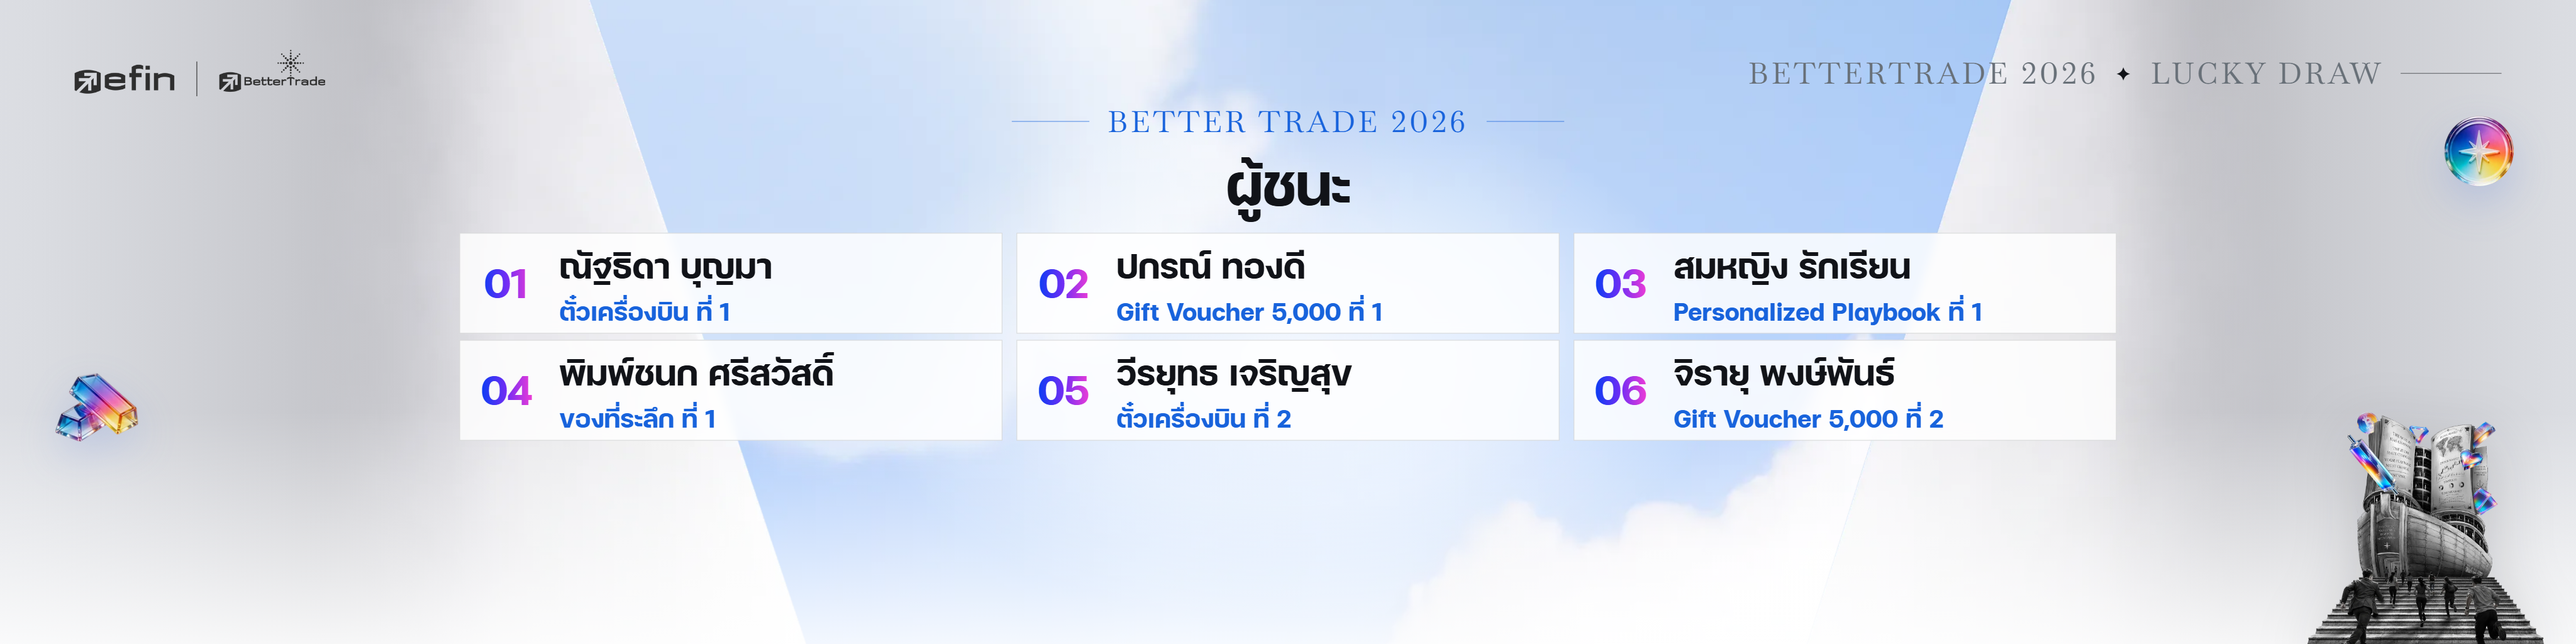
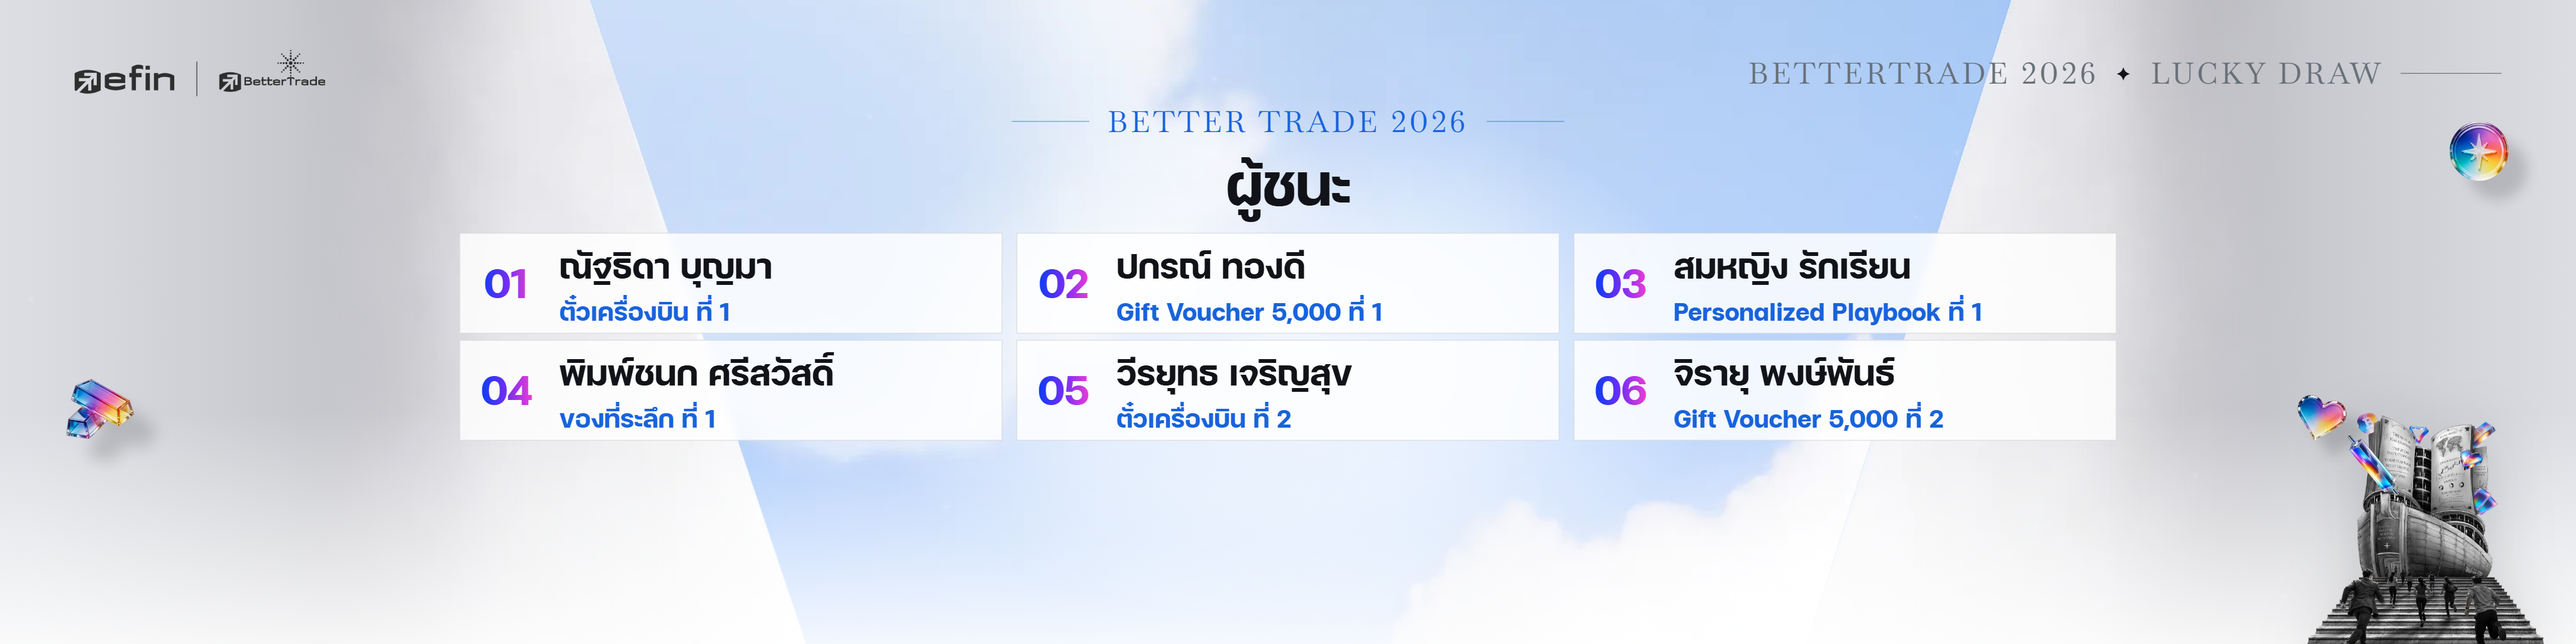
Depth treatment for the glass pieces on every scene; denser reveal confetti
After the key-visual video: one light from the upper left, so each piece casts a soft,
light grey shadow down-right onto the walls and wings only (a shadow layer masked by the
wall images; pieces over the sky cast none, the ship casts none). Pieces are sized and
tilted by depth (near/mid/far), bob by ~10% of their own size with the shadow bobbing at
40%, a small heart sits on the ship's book, and faint sparkle dust drifts over the stage.
Per-scene overrides keep the Mini board clear of the cards.

- Reveal confetti: ~125 pieces over 1.8s (was ~45 over 1.2s)
- Mini Stage idle and reveal share the prize scene's optical centre (lifted 45)
- Add heart.webp; regenerate previews

Changed region(s): [[0.9375, 0.1875, 1.0, 0.3125], [0.0, 0.5625, 0.0625, 0.7188], [0.875, 0.625, 0.9375, 0.6875]]

diff --git a/show-screen.html b/show-screen.html
@@ -65,7 +65,7 @@
   body.screen-main .ship{right:-660px;height:300px}   /* right zone, clear of the board */
   body.screen-main .el.efin{right:auto;bottom:auto;left:1680px;top:640px;width:120px}
   /* the 4-column board fills the sky, so the mid and near pieces step aside there (far pieces and the ship stay) */
-  .el,.wing-el{transition:opacity .6s}
+  .el,.wing-el{transition:opacity .6s,scale .8s ease,rotate .8s ease}   /* size and tilt ease in and out of the depth treatment */
   body.screen-main #stage[data-scene="board"] :is(.el.candle,.el.chest,.el.gift,.el.efin,.wing-el.n1,.wing-el.n2){opacity:0}
   /* ---- KV backdrop: sky seen between two white walls (key visual), layered so each part can move ---- */
   .sky{position:absolute;top:0;left:-6%;width:112%;height:100%;background:url("prize-assets/img/kv-sky.webp") center/cover no-repeat;
@@ -114,6 +114,8 @@
   /* prize */
   .prize h2,.idle h2,.board h2{font-weight:600;font-size:150px;line-height:1.05;letter-spacing:-.01em}
   .prize{padding-bottom:90px}   /* optical centre sits a little above the middle */
+  /* Mini Stage: idle and reveal sit at the same optical centre as the prize scene (about 45 above the middle) */
+  body.screen-mini :is(.scene.idle,.scene.reveal){padding-bottom:90px}
   .prize h2{margin:20px 0 22px}
   .prize .qty{font-size:46px;font-weight:700;color:var(--ink-2);display:flex;align-items:baseline;justify-content:center;gap:14px}
   .prize .qty b{font-weight:700;font-size:110px;line-height:1;color:var(--ink)}
@@ -281,6 +283,45 @@
   /* reveal: a wider name column so long names shrink less */
   body.screen-main .who{width:1500px}
 
+  /* ---- depth treatment (every scene, both screens), after the key-visual video:
+     one light from the upper left, so every piece casts a soft grey shadow down-right onto the walls and wings only
+     (the .shadows layer is masked to those surfaces; pieces over the sky cast none), pieces are sized by depth
+     (near > mid > far, about 2.5 : 1), each bobs by ~10% of its own size, and its shadow bobs at 40% of that.
+     Sizes, tilts and shadow offsets are set per piece by applyDepth() in the script. ---- */
+  .shadows{position:absolute;top:0;bottom:0;left:-1400px;width:4720px;pointer-events:none;opacity:0;transition:opacity .6s;
+    --ml:1275px;--mr:2759px;--wl:0px;--wr:4720px;
+    -webkit-mask:url("prize-assets/img/kv-wall-l.webp") var(--ml) 0/687px 1600px no-repeat,url("prize-assets/img/kv-wall-r.webp") var(--mr) 0/716px 1600px no-repeat,
+      linear-gradient(#000,#000) 0 0/var(--wl) 100% no-repeat,linear-gradient(#000,#000) var(--wr) 0/100% 100% no-repeat;
+    mask:url("prize-assets/img/kv-wall-l.webp") var(--ml) 0/687px 1600px no-repeat,url("prize-assets/img/kv-wall-r.webp") var(--mr) 0/716px 1600px no-repeat,
+      linear-gradient(#000,#000) 0 0/var(--wl) 100% no-repeat,linear-gradient(#000,#000) var(--wr) 0/100% 100% no-repeat}
+  /* Main Stage: walls sit 200px further apart, and the wings (left of -323, right of 2273) are wall surface too */
+  body.screen-main .shadows{--ml:1075px;--mr:2959px;--wl:1077px;--wr:3673px}
+  #stage.depth .shadows{opacity:1}
+  /* a shadow is the piece's own silhouette, blacked out and blurred, moved by the same CSS as the piece (+1400px for the layer) */
+  .shadows .cast{margin:0 1400px;filter:brightness(0) blur(var(--blur,10px)) opacity(var(--op,.25));scale:var(--s,1);rotate:var(--r,0deg);
+    translate:var(--dx,0px) var(--dx,0px);animation-name:castbob;animation-duration:var(--dur,6s)}
+  @keyframes castbob{50%{transform:translateY(calc(-.4 * var(--amp,18px)))}}
+  #stage.depth :is(#core > .el,#core > .wing-el){filter:none;scale:var(--s,1);rotate:var(--r,0deg);animation-name:bobz;animation-duration:var(--dur,6s)}
+  @keyframes bobz{50%{transform:translateY(calc(-1 * var(--amp,18px))) rotate(-2deg)}}
+  /* the small heart only appears with the depth treatment, sitting on the ship's open book */
+  .el.s1{opacity:0;width:76px;right:252px;bottom:214px;animation-delay:-2.5s}
+  body.screen-main .el.s1{right:auto;bottom:auto;left:2250px;top:500px;width:80px}
+  #stage.depth .el.s1{opacity:1}
+  /* Mini Stage: the efin symbol tucks against the ship's hull, like the pieces round the ship in the key visual */
+  body.screen-mini #stage.depth .el.efin{right:280px;bottom:77px}
+  /* Main Stage: the gift sits a little lower and right so it clears the corner label and long winner names once it is larger */
+  body.screen-main #stage.depth .el.gift{top:140px;left:1730px}   /* right of where a very long winner name ends (~1720) */
+  /* Mini Stage: the larger gift steps down, clear of the corner label */
+  body.screen-mini #stage.depth .el.gift{top:140px}
+  body.screen-mini #stage.depth[data-scene="board"] .el.gift{top:104px}
+  body.screen-mini #stage.depth[data-scene="board"] .el.candle{left:-25px}
+  /* drifting sparkle dust in front of the backdrop */
+  .dust{position:absolute;top:0;bottom:0;left:-1400px;width:4720px;pointer-events:none;opacity:0;transition:opacity .6s}
+  #stage.depth .dust{opacity:1}
+  .dust i{position:absolute;width:var(--d);height:var(--d);border-radius:50%;background:#fff;box-shadow:0 0 6px 1px rgba(255,255,255,.9);
+    opacity:.2;animation:twinkle var(--t) ease-in-out infinite alternate;animation-delay:var(--dl)}
+  @keyframes twinkle{to{opacity:.95;transform:translateY(-8px)}}
+
   /* ?still: every scene in its settled state, no motion (gallery thumbnails and PNG export) */
   body.still *,body.still *::before,body.still *::after{animation:none!important;transition:none!important}
 
@@ -292,20 +333,23 @@
 <div id="stage">
 <div id="core">
   <div class="wing l"></div><div class="wing r"></div>
-  <img class="wing-el b" src="prize-assets/img/gold-bars.webp" alt="">
-  <img class="wing-el c" src="prize-assets/img/compass.webp" alt="">
   <div class="sky"></div>
   <img class="wall l" src="prize-assets/img/kv-wall-l.webp" alt="">
   <img class="wall r" src="prize-assets/img/kv-wall-r.webp" alt="">
   <div class="seam l"></div><div class="seam r"></div>
   <div class="floor"></div>
+  <div class="shadows" aria-hidden="true"></div>
+  <img class="wing-el b" src="prize-assets/img/gold-bars.webp" alt="">
+  <img class="wing-el c" src="prize-assets/img/compass.webp" alt="">
   <div class="halo"></div>
+  <div class="dust" aria-hidden="true"></div>
   <img class="ship" src="prize-assets/img/kv-ship.webp" alt="">
   <img class="el efin" src="prize-assets/img/efin-symbol.webp" alt="">
 
   <img class="el candle" src="prize-assets/img/candle.png" alt="">
   <img class="el chest" src="prize-assets/img/chest.webp" alt="">
   <img class="el gift" src="prize-assets/img/gift.webp" alt="">
+  <img class="el s1" src="prize-assets/img/heart.webp" alt="">
   <img class="wing-el n1" src="prize-assets/img/diamond-icon.webp" alt="">
   <img class="wing-el n2" src="prize-assets/img/coin.webp" alt="">
 
@@ -441,6 +485,7 @@ function setScreen(x){
   document.querySelectorAll("#demoBar [data-screen]").forEach(b => b.setAttribute("aria-pressed", b.dataset.screen === screen));
   fit();
   stage.dataset.sized = "1";
+  if(window.depthReady) applyDepth();
   if(!first && typeof lastBoard !== "undefined" && lastBoard && stage.dataset.scene === "board") showBoard(lastBoard);
 }
 addEventListener("resize", fit);
@@ -513,8 +558,57 @@ function startReel(st, dur){
   reelRaf = requestAnimationFrame(step);
 }
 
+// ---- depth treatment: every scene on both screens. See the .shadows CSS for the idea. ----
+const DEPTH_SCENES = new Set(["idle", "prize", "drawing", "redraw", "reveal", "board"]);   // every scene now
+// per screen, per piece (its second class): [layer, scale, tilt in degrees, visible share of the image box (default 1)]
+const DEPTH = {
+  mini: { candle: ["near", 1.25, 8, .55], chest: ["mid", 1.3, -6], gift: ["mid", 1.08, 7], efin: ["far", .8, -14], s1: ["far", 1, 14] },
+  main: { candle: ["mid", 1.15, 6, .55], chest: ["mid", 1.3, -6], gift: ["near", 1, 8], efin: ["near", 1.6, -10], n1: ["near", 1.45, -8],
+          n2: ["near", 1.6, 10], b: ["far", .85, -12], c: ["far", .85, 0], s1: ["far", 1, 14] },
+};
+// per screen and scene: entries that replace the ones above (Mini board: the gift and candle stay smaller, clear of the cards and the corner label)
+const DEPTH_SCENE = { mini: { board: { gift: ["mid", .95, 4], candle: ["near", 1.05, 8, .55] } } };
+// k: shadow offset as a share of the piece's size (further from the wall = longer, softer, lighter); amp: bob as a share of its size
+const LAYER = {
+  near: { k: .55, blur: .20, op: .09, amp: .12, dur: 6 },
+  mid:  { k: .40, blur: .15, op: .12, amp: .10, dur: 6 },
+  far:  { k: .26, blur: .10, op: .15, amp: .08, dur: 4.2 },
+};
+const castLayer = $(".shadows");
+const pieces = [...document.querySelectorAll("#core > .el, #core > .wing-el, #core > .ship")].map(p => {
+  const c = p.cloneNode(); c.classList.add("cast"); c.alt = ""; c.setAttribute("aria-hidden", "true");
+  castLayer.appendChild(c);
+  return { p, c, key: p.classList[1] || "ship" };
+});
+function applyDepth(){
+  const on = DEPTH_SCENES.has(stage.dataset.scene);
+  stage.classList.toggle("depth", on);
+  for(const { p, c, key } of pieces){
+    const cfg = on && ((DEPTH_SCENE[screen]?.[stage.dataset.scene] || {})[key] || DEPTH[screen][key]);
+    c.style.display = cfg ? "" : "none";
+    if(!cfg){ [p, c].forEach(e => ["--s", "--r", "--amp", "--dur", "--dx", "--blur", "--op"].forEach(v => e.style.removeProperty(v))); continue; }
+    const [layer, s, r, f = 1] = cfg, L = LAYER[layer];
+    // layout box (unaffected by transforms) and the size the piece shows at; the candle bar fills only part of its square image
+    const box = Math.max(p.offsetWidth, p.offsetHeight) * f, size = box * s;
+    for(const e of [p, c]){
+      e.style.setProperty("--s", s); e.style.setProperty("--r", r + "deg");
+      e.style.setProperty("--amp", (L.amp * box).toFixed(1) + "px"); e.style.setProperty("--dur", L.dur + "s");
+    }
+    c.style.setProperty("--dx", (L.k * size).toFixed(1) + "px");
+    c.style.setProperty("--blur", (L.blur * size).toFixed(1) + "px");
+    c.style.setProperty("--op", L.op);
+  }
+}
+// sparkle dust: a few tiny glints spread over the stage (own seed, so still frames match and the winner picks are untouched)
+const dustRand = (() => { let x = 11; return () => (x = (x * 9301 + 49297) % 233280) / 233280; })();
+$(".dust").innerHTML = Array.from({ length: 26 }, () =>
+  `<i style="left:${(700 + dustRand() * 3320).toFixed(0)}px;top:${(dustRand() * 1000).toFixed(0)}px;--d:${(2 + dustRand() * 3).toFixed(1)}px;--t:${(2.5 + dustRand() * 3).toFixed(1)}s;--dl:-${(dustRand() * 5).toFixed(1)}s"></i>`).join("");
+addEventListener("load", applyDepth);   // image heights are known once they load
+window.depthReady = true;
+
 function go(scene){
   stage.dataset.scene = scene;
+  if(window.depthReady) applyDepth();
   document.querySelectorAll(".scene").forEach(s => s.classList.toggle("on", s.dataset.scene === scene));
   if(scene !== "reveal"){ parts = []; emitUntil = 0; }
   const chip = scene === "redraw" ? "drawing" : scene;
@@ -648,16 +742,16 @@ function apply(st, instant){
 // ---- confetti in the brand rim palette ----
 const cv = $("#confetti"), cx = cv.getContext("2d");
 const COLORS = ["#00d4fe","#1f87e6","#113cf3","#722df4","#e63bd8","#f79319","#ffffff","#cfd8ea"];
-// A brief gimmick, not a show: about 45 small pieces over ~1.2s, falling from the top edge through
+// A brief gimmick, not a show: about 125 small pieces over ~1.8s, falling from the top edge through
 // the centre, drawn behind the text so the winner name stays readable. Each piece fades out
-// between FADE_FROM and FADE_TO and is gone ~3.5s after the reveal.
+// between FADE_FROM and FADE_TO and is gone ~4s after the reveal.
 const FADE_FROM = 620, FADE_TO = 940;
-const RATE = 38;                                      // pieces per second while emitting
+const RATE = 70;                                      // pieces per second while emitting
 const BANDS = [[380, 1540]];                          // x range (1920 stage): the centre, falling from the top edge, drawn behind the text
 let parts = [], raf = 0, emitUntil = 0, lastT = 0, acc = 0;
 function confetti(){
   if(reduce) return;
-  emitUntil = performance.now() + 1200; lastT = performance.now(); acc = 0;
+  emitUntil = performance.now() + 1800; lastT = performance.now(); acc = 0;
   if(!raf) raf = requestAnimationFrame(tick);
 }
 function spawn(){
